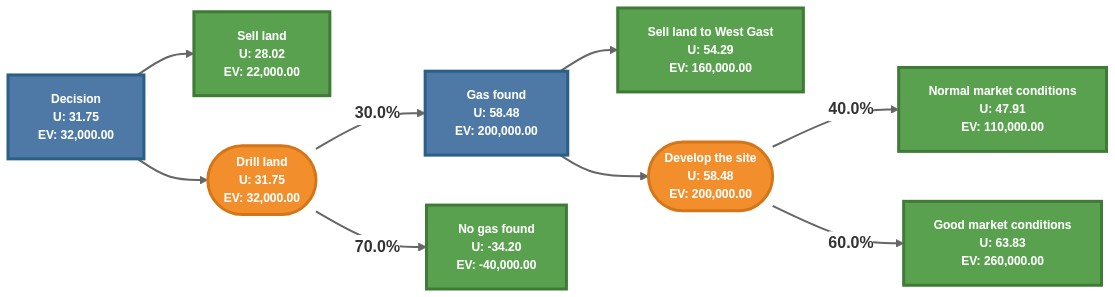
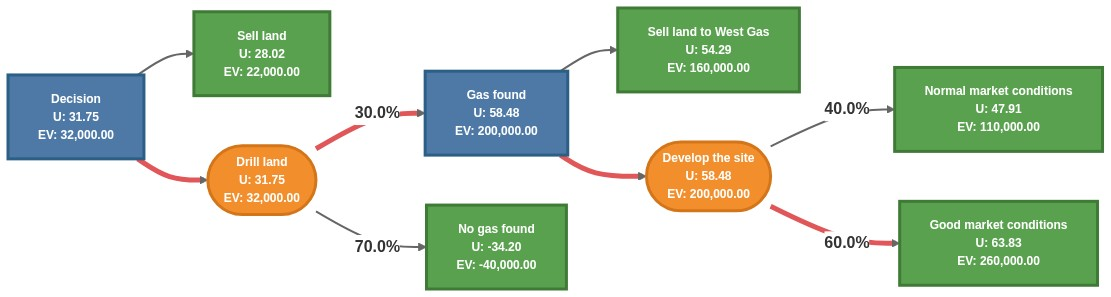
Update: Highlight optimal path in mermaid chart + example.ipynb notebook

diff --git a/dtree/core.py b/dtree/core.py
@@ -354,9 +354,22 @@ class DecisionTree:
                 path.append(current)
                 
             elif node.node_type == NodeType.CHANCE:
-                # For chance nodes, show the path but note it's probabilistic
-                # Just take the first child for path demonstration
-                current = children[0][0]
+                # For chance nodes, also choose the optimal child based on expected values
+                best_child = None
+                best_value = float('-inf') if maximize else float('inf')
+                
+                for child_id, _ in children:
+                    child_value = decision_values[child_id]
+                    if maximize:
+                        if child_value > best_value:
+                            best_value = child_value
+                            best_child = child_id
+                    else:
+                        if child_value < best_value:
+                            best_value = child_value
+                            best_child = child_id
+                        
+                current = best_child
                 path.append(current)
                 
             else:  # Terminal
@@ -391,6 +404,12 @@ class DecisionTree:
         
         # Get appropriate display precision
         precision = self._get_display_precision(all_values)
+        
+        # Compute the optimal path (as a set of edges)
+        optimal_path_nodes = self.get_optimal_path(next(iter(self.nodes)))
+        optimal_path_edges = set()
+        for i in range(len(optimal_path_nodes) - 1):
+            optimal_path_edges.add((optimal_path_nodes[i], optimal_path_nodes[i+1]))
         
         # Start with horizontal layout
         mermaid_code = ["graph LR"]
@@ -445,6 +464,8 @@ class DecisionTree:
                 mermaid_code.append(f"    class {node_id} terminal")
         
         # Add edges with enhanced styling
+        link_styles = []
+        edge_count = 0
         for edge in self.edges:
             # Format probability as percentage
             if edge.probability == 1.0:
@@ -453,14 +474,20 @@ class DecisionTree:
                 prob_str = self._format_probability_as_percentage(edge.probability)
                 prob_label = f"|<b>{prob_str}</b>|"
             
-            # Use thicker arrows for better visibility
-            mermaid_code.append(f"    {edge.from_node} ==>{prob_label} {edge.to_node}")
+            edge_str = f"    {edge.from_node} ==>{prob_label} {edge.to_node}"
+            mermaid_code.append(edge_str)
+            # If this edge is in the optimal path, add a custom linkStyle
+            if (edge.from_node, edge.to_node) in optimal_path_edges:
+                link_styles.append(f"    linkStyle {edge_count} stroke:#e15759,stroke-width:5px;")
+            edge_count += 1
         
         # Add overall styling
         mermaid_code.extend([
             "    linkStyle default stroke:#666,stroke-width:2px",
             "    %%{init: {'theme':'base', 'themeVariables': {'primaryColor':'#ffffff', 'primaryTextColor':'#333333', 'primaryBorderColor':'#dddddd', 'lineColor':'#666666'}}}%%"
         ])
+        # Add custom link styles for optimal path
+        mermaid_code.extend(link_styles)
         
         return "\n".join(mermaid_code)
     

diff --git a/README.md b/README.md
@@ -117,7 +117,7 @@ Company engineers estimate a 30% chance of finding gas. Meanwhile, the company's
 
 What decision should Newox make to maximize its expected profits?
 
-This example demonstrates a complex decision tree for a land investment scenario, both with and without a utility function.
+*This example demonstrates a more complex decision tree for a land investment scenario, both with and without a utility function.*
 
 ### Without Utility Function
 
@@ -195,7 +195,8 @@ dt.add_edge("GD", "GM", 0.6)
 
 #### To analyze the decision tree you can:
 
-Create a mermaid graph using `save_mermaid_graph`.
+Create a mermaid graph using `save_mermaid_graph`.  
+*The thicker line shows the optimal path. This is useful to understand, at each decision node, which would be the best path given the quantified information.*
 ```python
 dt.save_mermaid_graph("./images/case_with_utility_func.png")
 ```
@@ -238,6 +239,10 @@ dt.save_mermaid_diagram("./images/case_with_utility_func.md")
 #     GD ==>|<b>60.0%</b>| GM
 #     linkStyle default stroke:#666,stroke-width:2px
 #     %%{init: {'theme':'base', 'themeVariables': {'primaryColor':'#ffffff', 'primaryTextColor':'#333333', 'primaryBorderColor':'#dddddd', 'lineColor':'#666666'}}}%%
+#     linkStyle 1 stroke:#e15759,stroke-width:5px;
+#     linkStyle 2 stroke:#e15759,stroke-width:5px;
+#     linkStyle 4 stroke:#e15759,stroke-width:5px;
+#     linkStyle 7 stroke:#e15759,stroke-width:5px;
 ```
 
 The `calculate_expected_values` method allows you to get all the values as a dictionary.

diff --git a/images/case_with_utility_func.md b/images/case_with_utility_func.md
@@ -32,4 +32,8 @@ graph LR
     GD ==>|<b>60.0%</b>| GM
     linkStyle default stroke:#666,stroke-width:2px
     %%{init: {'theme':'base', 'themeVariables': {'primaryColor':'#ffffff', 'primaryTextColor':'#333333', 'primaryBorderColor':'#dddddd', 'lineColor':'#666666'}}}%%
+    linkStyle 1 stroke:#e15759,stroke-width:5px;
+    linkStyle 2 stroke:#e15759,stroke-width:5px;
+    linkStyle 4 stroke:#e15759,stroke-width:5px;
+    linkStyle 7 stroke:#e15759,stroke-width:5px;
 ```
